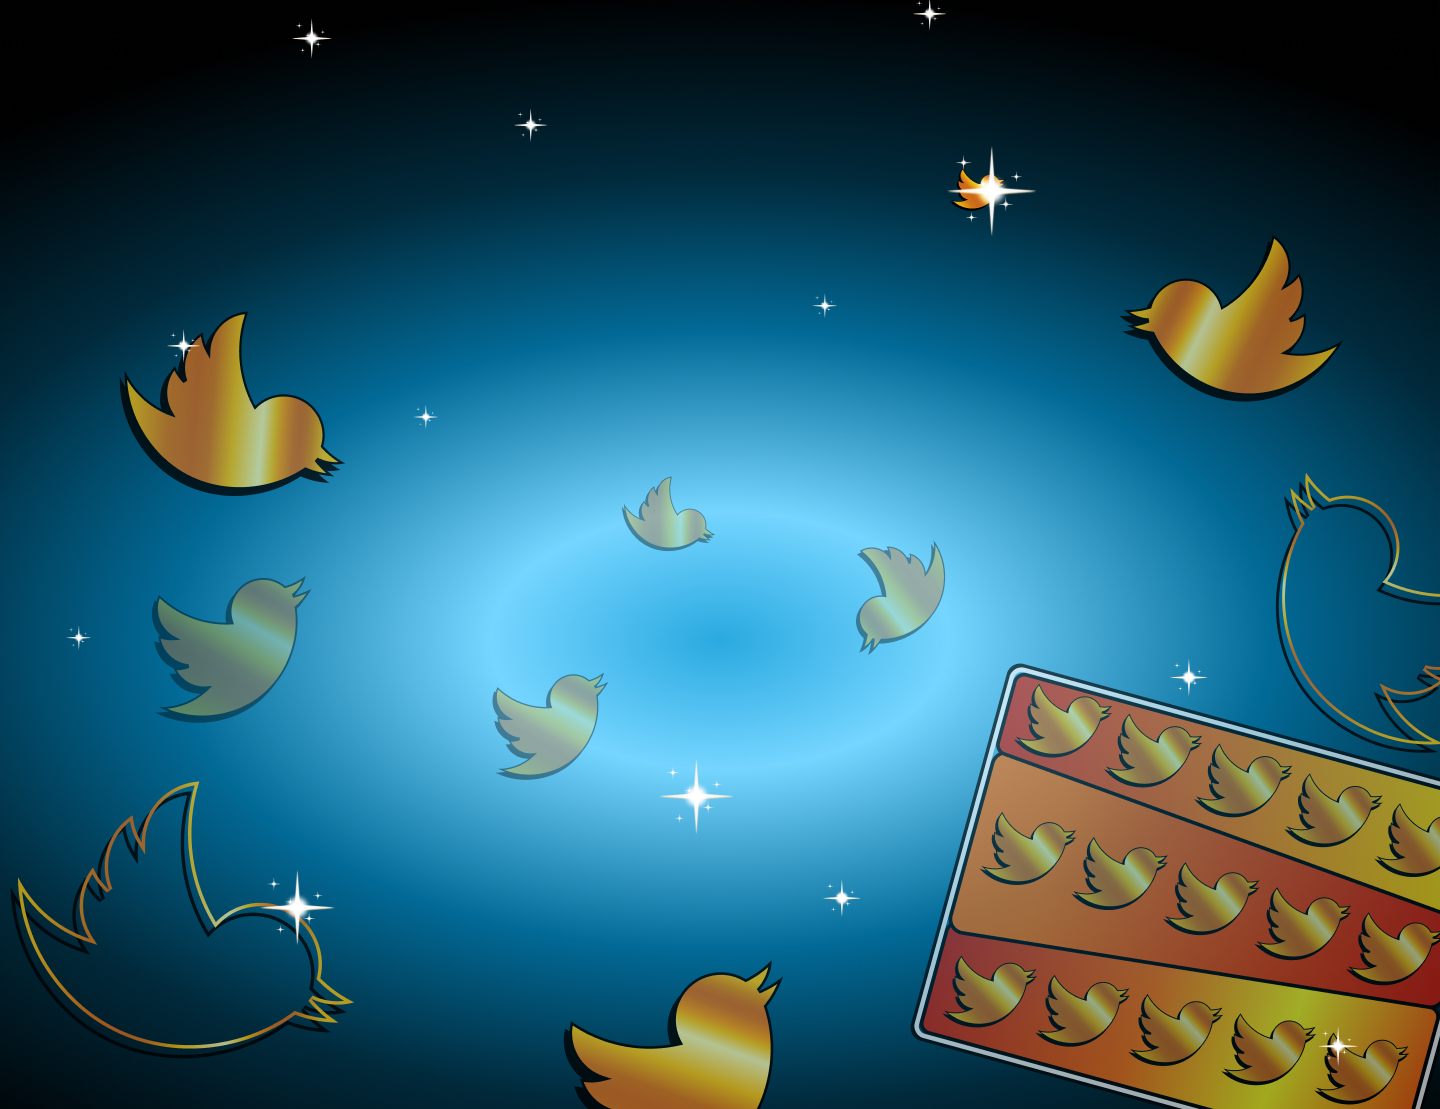
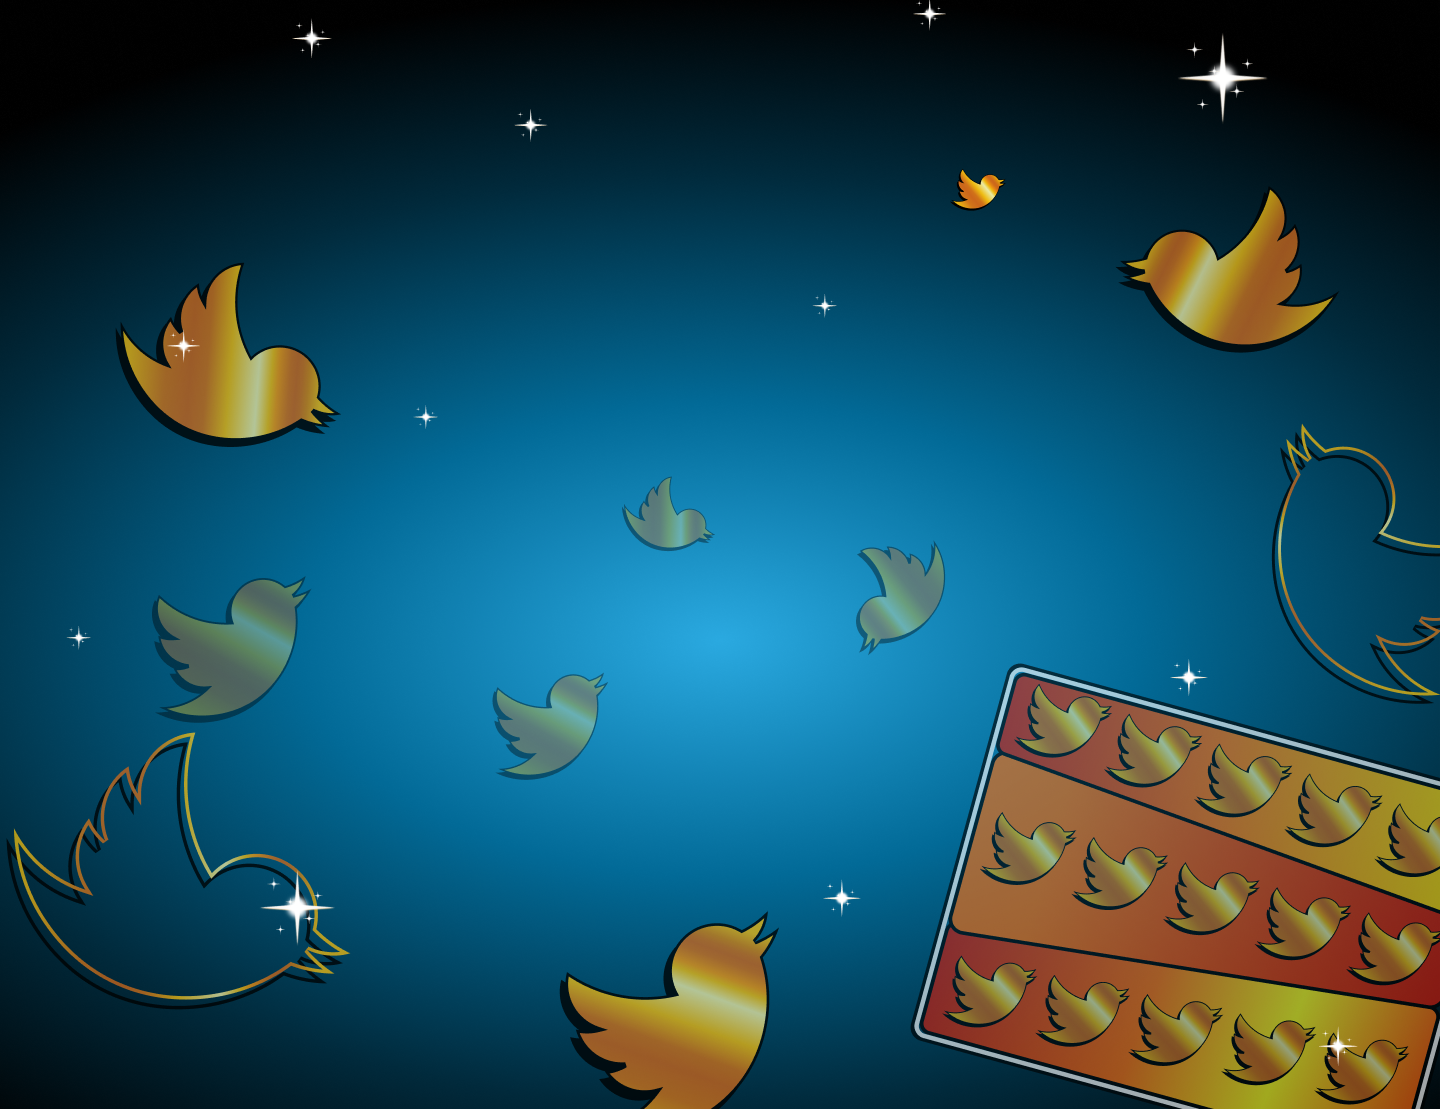
Better background pics

diff --git a/frontend/src/components/Leaderboard/index.js b/frontend/src/components/Leaderboard/index.js
@@ -180,7 +180,7 @@ const HeaderText = styled.div`
 `
 
 export const BackgroundImage = styled.div`
-  background-image: url("/images/lottery-background-v2.png");
+  background-image: url("/images/lottery-background-v5.png");
   background-size: cover;
   overflow: hidden;
   display: flex;

diff --git a/frontend/src/App.js b/frontend/src/App.js
@@ -8,6 +8,7 @@ import {
   BrowserRouter as Router,
   Switch,
   Route,
+  createBrowserHistory
 } from "react-router-dom";
 import styled from "styled-components"
 import BeatLoader from "react-spinners/BeatLoader";
